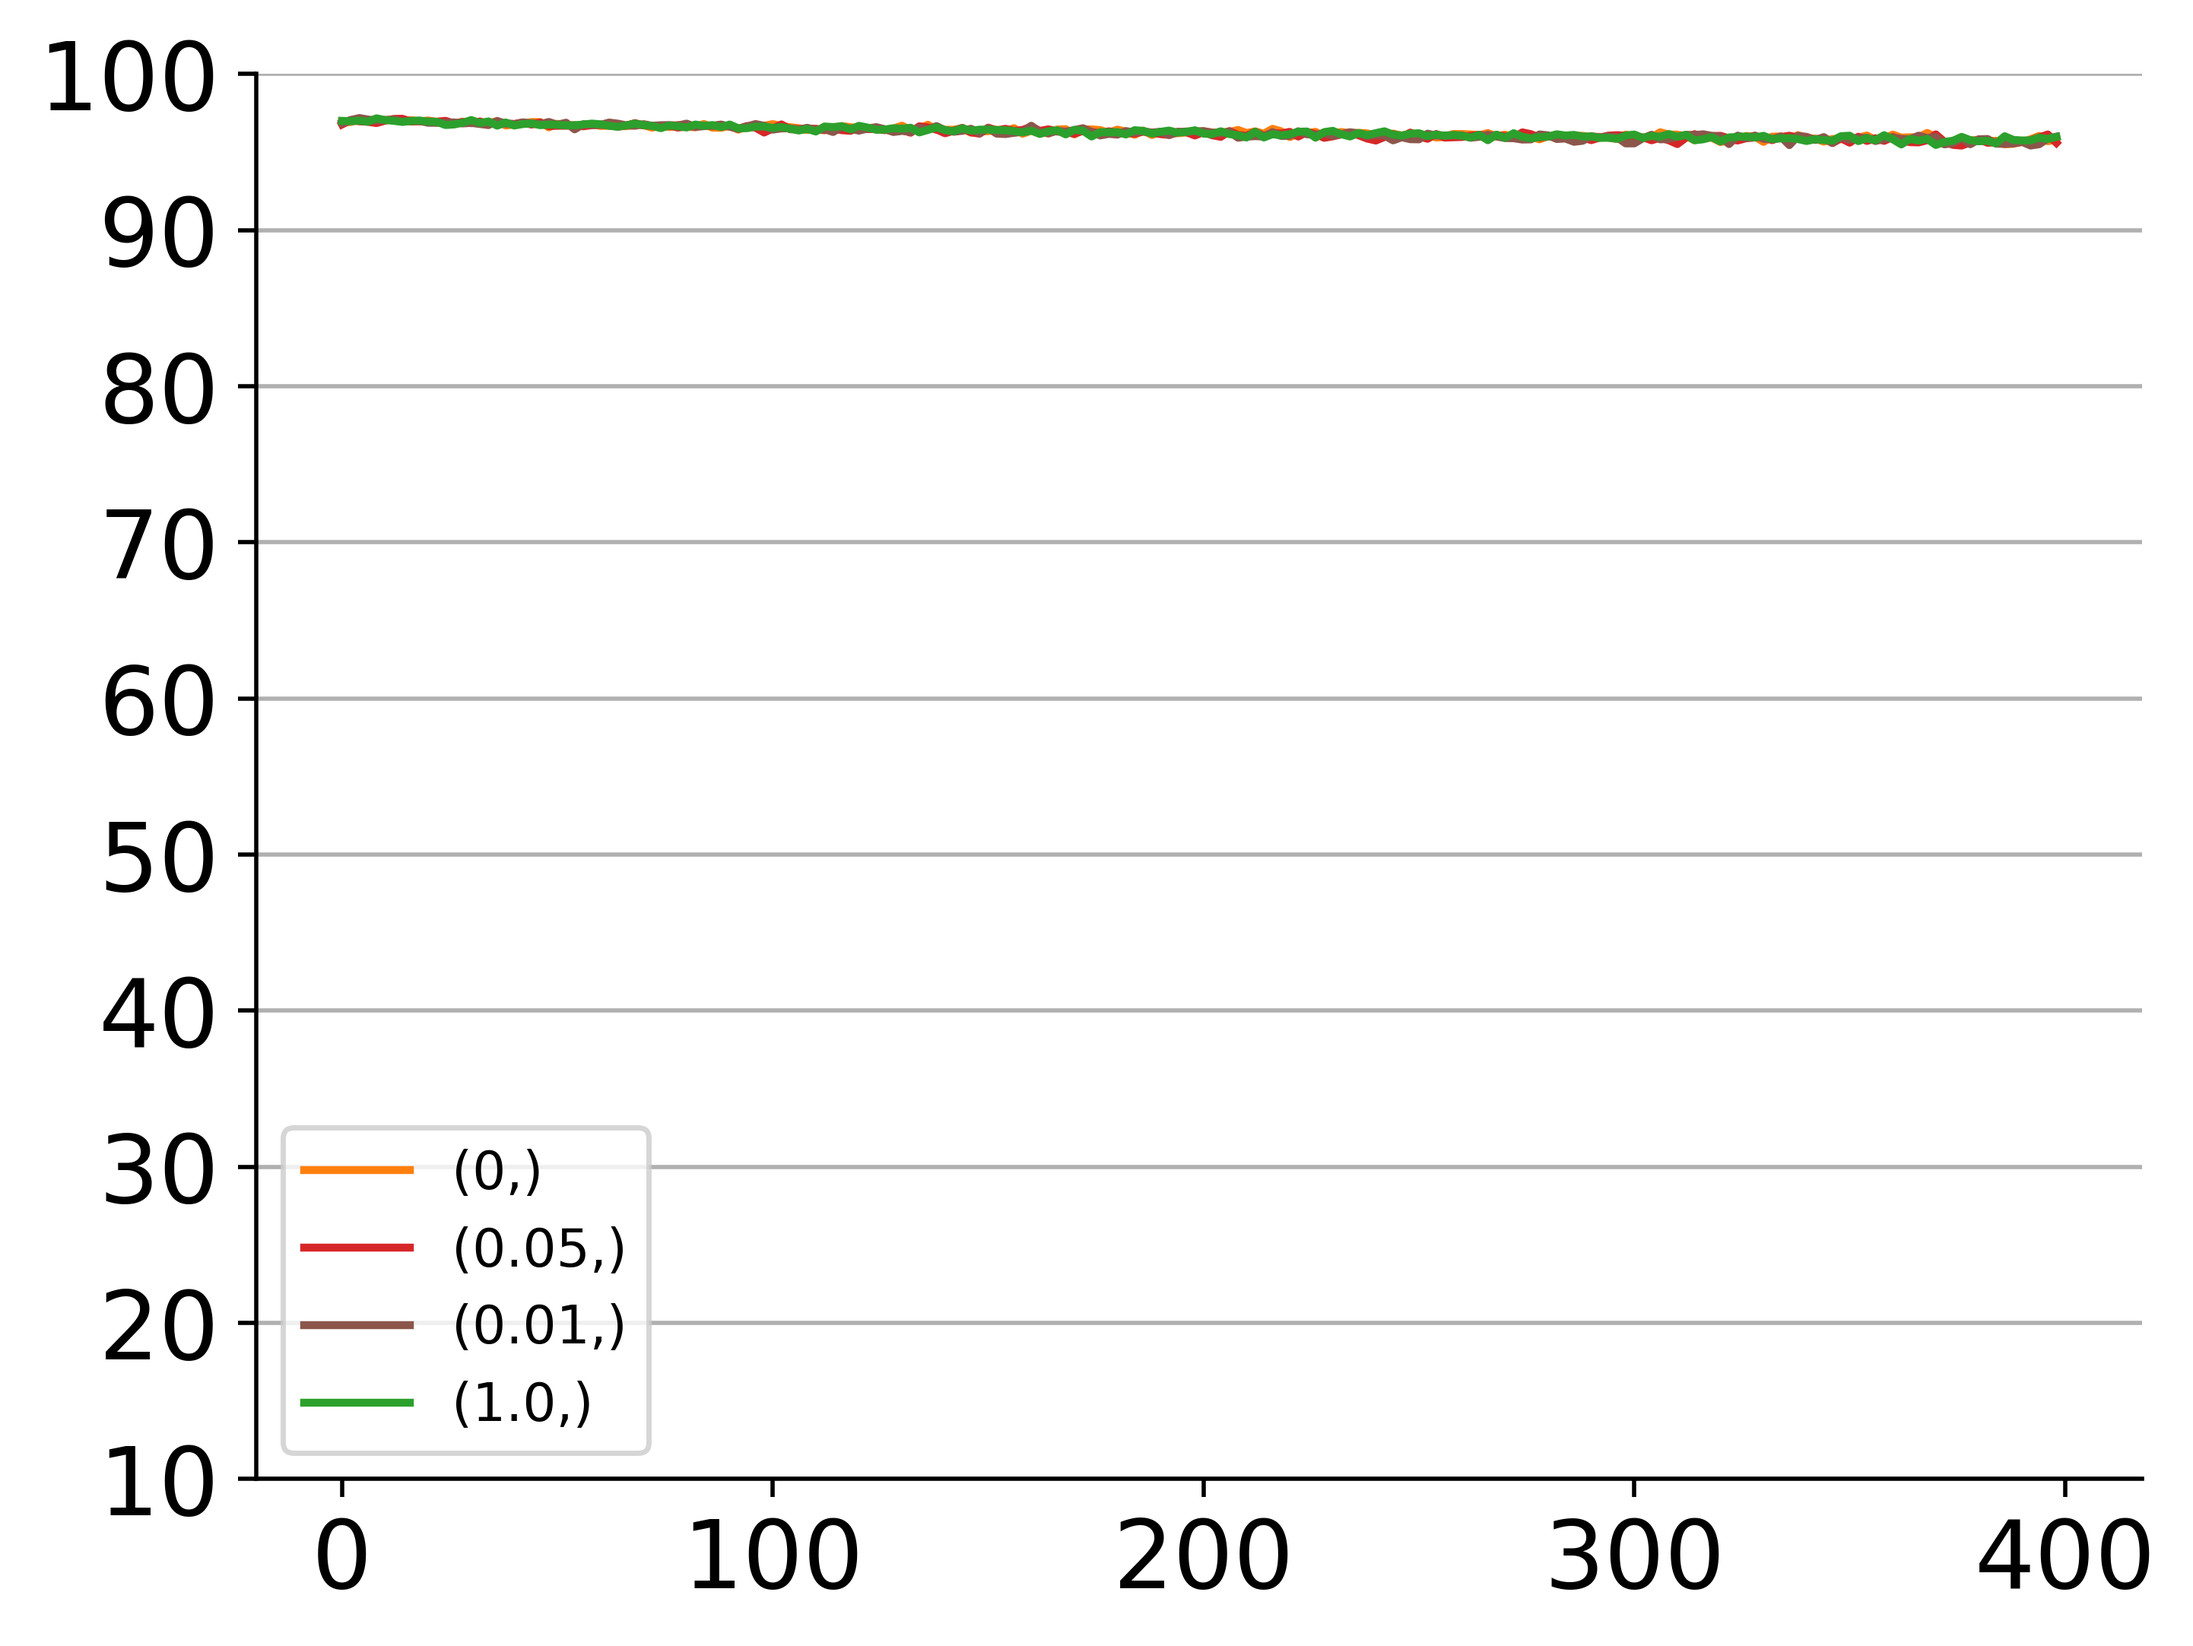
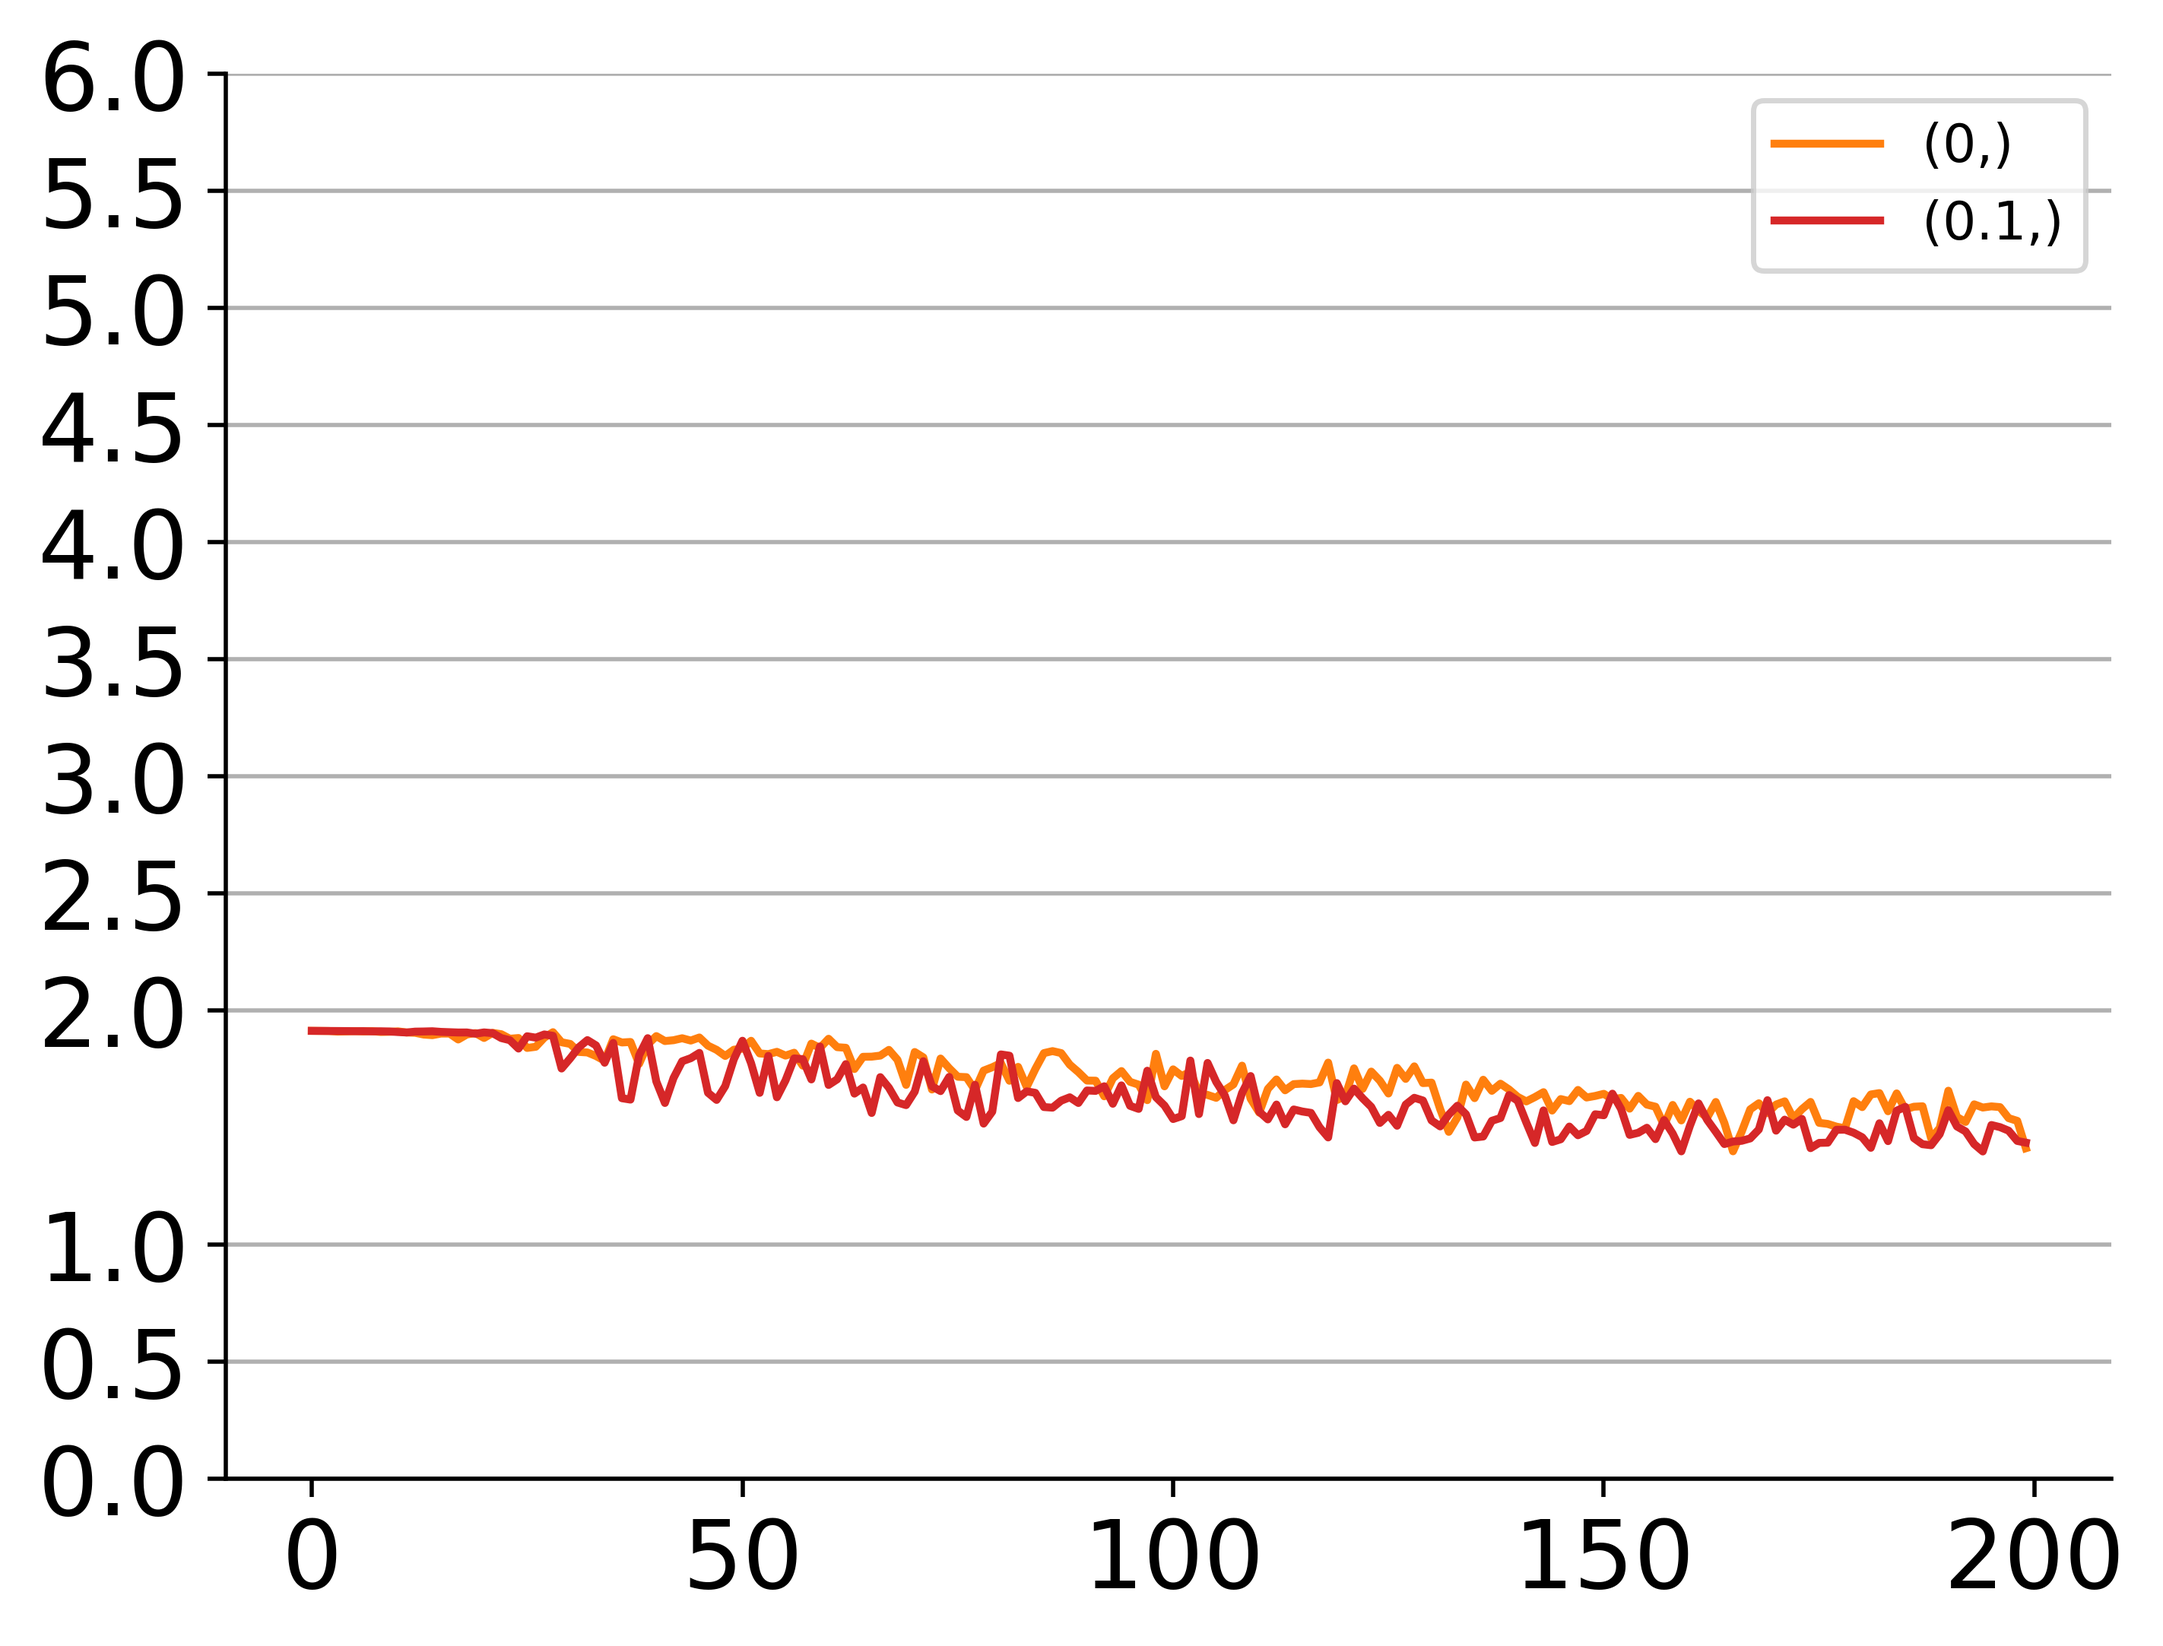
kde instead of histogram, ensure gradient of kl term

diff --git a/lop/algos/bp_kl_div.py b/lop/algos/bp_kl_div.py
@@ -26,6 +26,8 @@ class BackpropKL(object):
         self.kl_div_scale = kl_div_scale
         self.power_law_alpha = power_law_alpha
         self.bins = 100
+        self.latest_loss = None
+        self.latest_kl = None
 
         # define the optimizer
         if opt == 'sgd':
@@ -83,7 +85,7 @@ class BackpropKL(object):
     def copy_util_score(self, array_of_torch_tensors):
         return torch.stack(array_of_torch_tensors)
 
-    def utility_powerlaw_kl(self, utilities,  eps=1e-8):
+    def utility_powerlaw_kl(self, utilities, bandwidth=0.01, eps=1e-8):
 
         # flatten utilities
         u = utilities.flatten()
@@ -94,15 +96,36 @@ class BackpropKL(object):
         # scale-free
         u = u / u.sum()
 
-        # empirical distribution Q
-        hist = torch.histc(
-            u,
-            bins=self.bins,
-            min=0.0,
-            max=1.0
+        # Evaluation points (same number as histogram bins)
+        x = torch.linspace(
+            0.0,
+            1.0,
+            self.bins,
+            device=u.device
         )
 
-        q = hist / hist.sum()
+        # print("shape x: ", x.shape)
+        # print("shape u: ", u.shape)
+        # print("x: ", x[:, None])
+        # print("u: ", u[None, :])
+        # Pairwise distances
+        # shape: (num_points, num_utilities)
+        diff = x[:, None] - u[None, :]
+
+        # print("shape diff: ", diff.shape)
+
+        # TODO: look into how to speed up KDE computation
+
+        # Gaussian kernel (constant cancels when normalizing)
+        kernels = torch.exp(-0.5 * (diff / bandwidth) ** 2)
+
+        # KDE estimate
+        q = kernels.mean(dim=1)
+
+        # Normalize to obtain a discrete probability distribution
+        q = q / (q.sum() + eps)
+
+
         p = self.target_power_law
 
         # Forward `KL(P || Q)
@@ -118,9 +141,9 @@ class BackpropKL(object):
         :param target: desired output
         :return: loss
         """
-
         output, features = self.net.predict(x=x)
         loss = self.loss_func(output, target)
+        self.latest_loss = loss.detach()
         #print("loss: ", loss)
         self.previous_features = features
 
@@ -131,14 +154,23 @@ class BackpropKL(object):
 
             self.util = self.copy_util_score(self.gnt.util)
 
+            # TODO: add kl div only every other n steps
             # Add KL div loss
-            if self.kl_div_scale > 0:
-                util_kl = self.utility_powerlaw_kl(self.util)
-                loss = loss + self.kl_div_scale * util_kl
+            util_kl = self.utility_powerlaw_kl(self.util)
+            self.latest_kl = util_kl.detach()
+
+            #print(self.util)
+            #print(self.util.is_leaf and not self.util.requires_grad)
+            #print(util_kl.is_leaf and not util_kl.requires_grad)
+            loss = loss + self.kl_div_scale * util_kl
+
 
         self.opt.zero_grad()
         loss.backward()
         self.opt.step()
+
+        # Detach utils
+        self.util = self.util.detach()
 
         if self.to_perturb:
             self.perturb()

diff --git a/lop/permuted_mnist/online_expr.py b/lop/permuted_mnist/online_expr.py
@@ -2,6 +2,7 @@ import sys
 import json
 import torch
 import pickle
+import gc
 import argparse
 import numpy as np
 from tqdm import tqdm
@@ -155,6 +156,8 @@ def online_expr(params: {}):
     approximate_ranks_abs = torch.zeros((int(total_examples/rank_measure_period), num_hidden_layers), dtype=torch.float)
     ranks = torch.zeros((int(total_examples/rank_measure_period), num_hidden_layers), dtype=torch.float)
     dead_neurons = torch.zeros((int(total_examples/rank_measure_period), num_hidden_layers), dtype=torch.float)
+    losses = torch.zeros(total_iters, dtype=torch.float)
+    kl_divs = torch.zeros(total_iters, dtype=torch.float)
 
     iter = 0
     with open('data/mnist_', 'rb+') as f:
@@ -190,6 +193,10 @@ def online_expr(params: {}):
             batch_x = x[start_idx: start_idx+mini_batch_size]
             batch_y = y[start_idx: start_idx+mini_batch_size]
 
+            if iter % 1000 == 0:
+                print(torch.cuda.memory_summary())
+                print(len(gc.get_objects()))
+
             # train the network
             loss, network_output = learner.learn(x=batch_x, target=batch_y)
 
@@ -199,10 +206,13 @@ def online_expr(params: {}):
             # log accuracy
             with torch.no_grad():
                 accuracies[iter] = accuracy(softmax(network_output, dim=1), batch_y).cpu()
+                losses[iter] = learner.latest_loss.cpu()
 
             # log uitl scores
             if agent_type in ['bp_kl_div']:
                 utils = learner.util.cpu()
+                kl_divs[iter] = learner.latest_kl.cpu()
+
             iter += 1
 
         print('recent accuracy', accuracies[new_iter_start:iter - 1].mean())
@@ -215,7 +225,9 @@ def online_expr(params: {}):
                 'approximate_ranks': approximate_ranks.cpu(),
                 'abs_approximate_ranks': approximate_ranks_abs.cpu(),
                 'dead_neurons': dead_neurons.cpu(),
-                'utils': utils,
+                'utils': utils.cpu(),
+                'losses': losses.cpu(),
+                'kl_divs': kl_divs.cpu(),
             }
             save_data(file=params['data_file'], data=data)
 
@@ -227,7 +239,9 @@ def online_expr(params: {}):
         'approximate_ranks': approximate_ranks.cpu(),
         'abs_approximate_ranks': approximate_ranks_abs.cpu(),
         'dead_neurons': dead_neurons.cpu(),
-        'utils': utils,
+        'utils': utils.cpu(),
+        'losses': losses.cpu(),
+        'kl_divs': kl_divs.cpu(),
     }
     save_data(file=params['data_file'], data=data)
 

diff --git a/lop/permuted_mnist/plots/bp_metrics.py b/lop/permuted_mnist/plots/bp_metrics.py
@@ -63,8 +63,13 @@ def add_cfg_performance(cfg='', setting_idx=0, m=2*10*1000, num_runs=30, metric=
         elif metric == 'effective_rank':
             rank_normlization = 3*2000/100
             per_param_setting_performance.append(np.array(bin_m_errs(errs=data['effective_ranks'].sum(dim=1)/rank_normlization, m=m)))
+        elif metric == 'loss':
+            per_param_setting_performance.append(np.array(bin_m_errs(errs=data['losses'], m=m)))
+        elif metric == 'kl_div':
+            per_param_setting_performance.append(np.array(bin_m_errs(errs=data['kl_divs'], m=m)))
         else:
             per_param_setting_performance.append(np.array(bin_m_errs(errs=data['accuracies'] * 100, m=m)))
+
     print(param_settings[setting_idx], setting_idx, np.array(per_param_setting_performance).mean())
     return np.array(per_param_setting_performance)
 
@@ -110,7 +115,7 @@ def main(arguments):
         return
 
     performances = []
-    m = {'weight': 30*1000, 'accuracy': 30*1000, 'dead_neurons': 1, 'effective_rank': 1}[metric]
+    m = {'weight': 30*1000, 'accuracy': 30*1000, 'dead_neurons': 1, 'effective_rank': 1, 'loss': 30*1000, 'kl_div': 30*1000}[metric]
     num_runs = params['num_runs']
 
     indices = range(len(param_settings))
@@ -118,7 +123,7 @@ def main(arguments):
         performances.append(add_cfg_performance(cfg=cfg_file, setting_idx=i, m=m, num_runs=num_runs, metric=metric))
 
     yticks = {'weight': [0, 0.02, 0.04, 0.06, 0.08, 0.10], 'accuracy': [10, 20, 30, 40, 50, 60, 70, 80, 90, 100],
-             'dead_neurons': [0, 10, 20, 30], 'effective_rank': [0, 10, 20, 30, 40, 50]}[metric]
+             'dead_neurons': [0, 10, 20, 30], 'effective_rank': [0, 10, 20, 30, 40, 50], 'loss': [0.0,0.1, 0.2, 0.3, 0.4 , 0.5], 'kl_div': [0.0, 0.5, 1.0, 2.0, 2.5, 3.0, 3.5, 4.0, 4.5, 5.0, 5.5, 6.0]}[metric]
     # yticks = {'weight': [0, 0.02, 0.04, 0.06, 0.08, 0.10], 'accuracy': [88, 90, 92, 94, 96],
     #            'dead_neurons': [0, 10, 20, 30], 'effective_rank': [0, 10, 20, 30, 40, 50]}[metric]
     generate_online_performance_plot(
@@ -128,7 +133,7 @@ def main(arguments):
         xticks=[0, 50 * m, 100 * m, 150 * m, 200 * m],
         # xticks=[0, 200*m, 400*m, 600*m, 800*m],
         # xticks_labels=['0', '200', '400', '600', '800'],
-        xticks_labels=['0', '100', '200', '300','400'],
+        xticks_labels=['0', '50', '100', '150','200'],
         m=m,
         fontsize=18,
         labels=param_settings,

diff --git a/lop/algos/gnt.py b/lop/algos/gnt.py
@@ -85,7 +85,8 @@ class GnT(object):
         # self.save_cur_utils()
 
     def update_utility(self, layer_idx=0, features=None, next_features=None):
-        with torch.no_grad():
+        # Keep gradient to regularize loss
+        #with torch.no_grad():
             self.util[layer_idx] *= self.decay_rate
             """
             Adam-style bias correction
@@ -93,13 +94,17 @@ class GnT(object):
             bias_correction = 1 - self.decay_rate ** self.ages[layer_idx]
 
             self.mean_feature_act[layer_idx] *= self.decay_rate
-            self.mean_feature_act[layer_idx] -= - (1 - self.decay_rate) * features.mean(dim=0)
+
+            # Detach old means
+            self.mean_feature_act[layer_idx] = self.mean_feature_act[layer_idx].detach() + (1 - self.decay_rate) * features.mean(dim=0)
             bias_corrected_act = self.mean_feature_act[layer_idx] / bias_correction
 
             current_layer = self.net[layer_idx * 2]
             next_layer = self.net[layer_idx * 2 + 2]
-            output_wight_mag = next_layer.weight.data.abs().mean(dim=0)
-            input_wight_mag = current_layer.weight.data.abs().mean(dim=1)
+
+            # Remove .data() for gradient
+            output_wight_mag = next_layer.weight.abs().mean(dim=0)
+            input_wight_mag = current_layer.weight.abs().mean(dim=1)
 
             if self.util_type == 'weight':
                 new_util = output_wight_mag
@@ -117,7 +122,8 @@ class GnT(object):
             else:
                 new_util = 0
 
-            self.util[layer_idx] += (1 - self.decay_rate) * new_util
+            # Detach past utility scores
+            self.util[layer_idx] = self.util[layer_idx].detach() + (1 - self.decay_rate) * new_util
 
             """
             Adam-style bias correction
